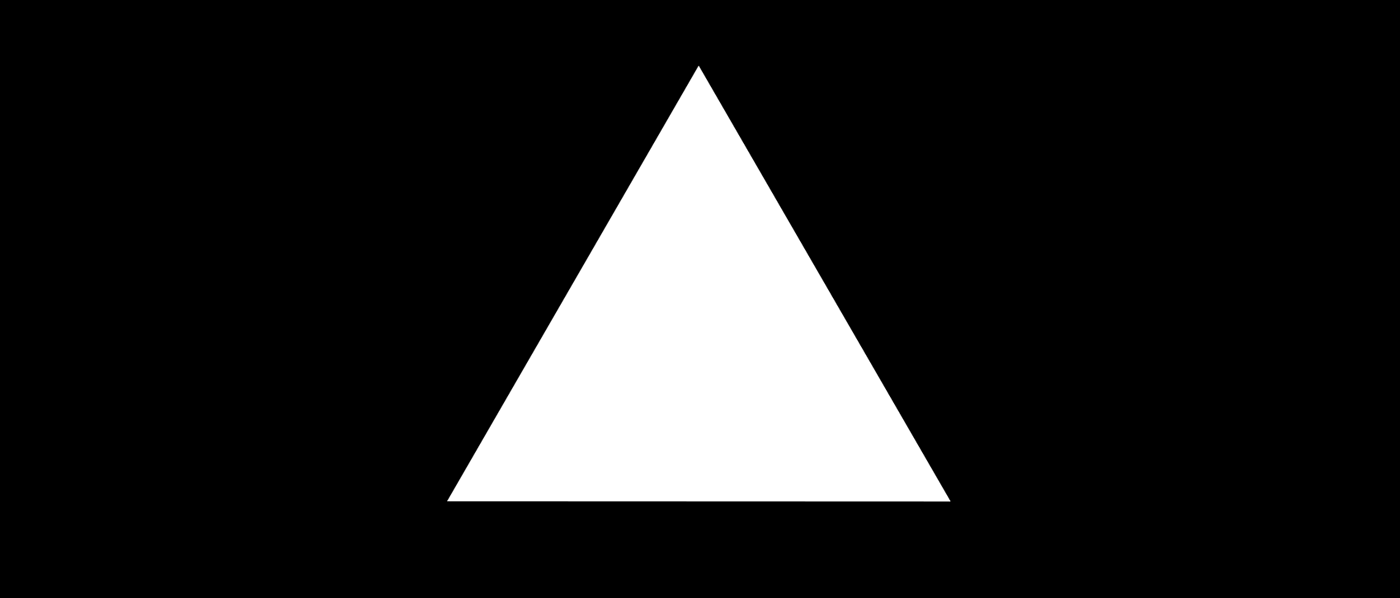
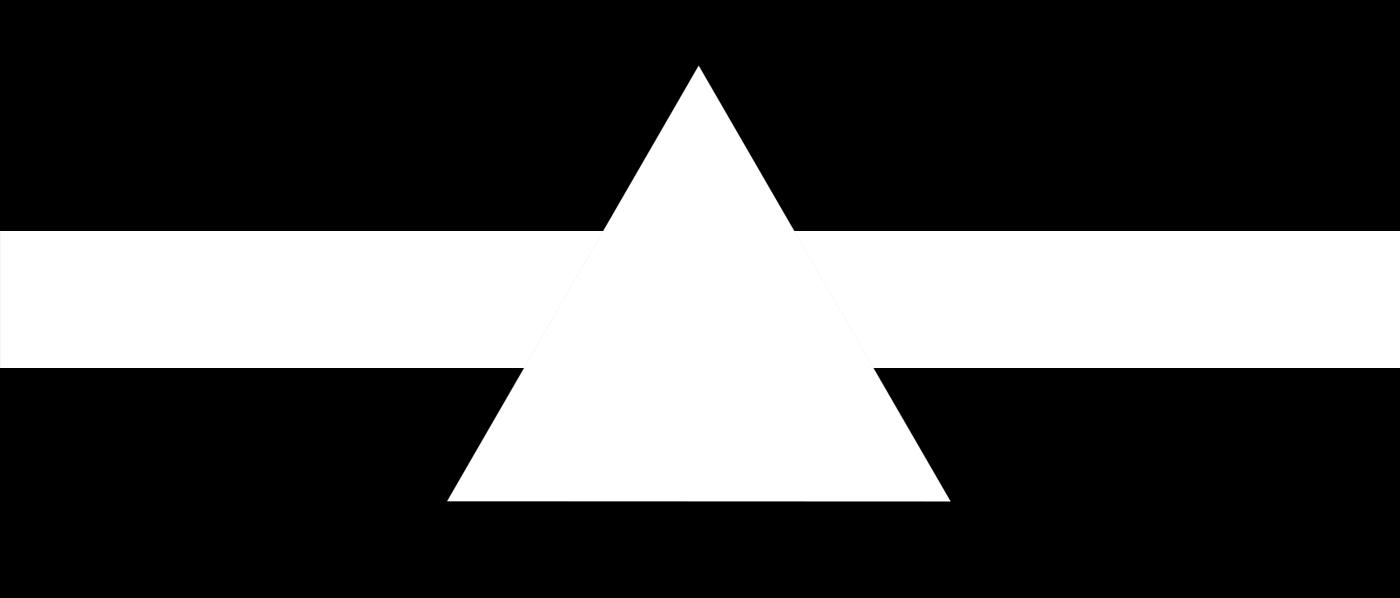
Parallax Test

Changed region(s): [[0.5529, 0.3612, 1.0, 0.6321], [0.0, 0.3612, 0.43, 0.6321]]

diff --git a/css/style.css b/css/style.css
@@ -138,6 +138,8 @@ body {
     overflow-x: hidden;
     overflow-y: auto;
     scroll-behavior: smooth; }
+    .our-work .parallax::-webkit-scrollbar {
+      display: none; }
     .our-work .parallax__group {
       position: relative;
       height: 100vh; }
@@ -148,18 +150,22 @@ body {
         bottom: 0;
         left: 0; }
       .our-work .parallax__group .parallax__layer--1 {
-        background-image: url(../img/montanha.png);
-        background-size: cover; }
+        background-image: url(../img/montanha.jpg);
+        background-size: cover;
+        transform: translateZ(-1px) scale(2); }
       .our-work .parallax__group .parallax__layer--2 {
         background-image: url(../img/pinheiros.png);
-        background-size: cover; }
+        background-size: cover;
+        height: 100vh;
+        transform: translateZ(0px); }
       .our-work .parallax__group .parallax__layer--3 {
         position: absolute;
         font-family: "Montserrat";
         text-align: center;
         color: #fff;
         height: 100%;
-        width: 100%; }
+        width: 100%;
+        transform: translateZ(-6px) scale(7); }
         .our-work .parallax__group .parallax__layer--3 .our-work__name {
           text-transform: uppercase;
           font-size: 4rem;
@@ -181,27 +187,6 @@ body {
             font-weight: 400;
             font-style: italic;
             letter-spacing: 1rem; }
-
-.parallax__layer__0 {
-  transform: translateZ(-300px) scale(4); }
-
-.parallax__layer__1 {
-  transform: translateZ(-250px) scale(3.5); }
-
-.parallax__layer__2 {
-  transform: translateZ(-200px) scale(3); }
-
-.parallax__layer__3 {
-  transform: translateZ(-150px) scale(2.5); }
-
-.parallax__layer__4 {
-  transform: translateZ(-100px) scale(2); }
-
-.parallax__layer__5 {
-  transform: translateZ(-50px) scale(1.5); }
-
-.parallax__layer__6 {
-  transform: translateZ(0px) scale(1); }
 
 .footer {
   background-color: #000;

diff --git a/sass/layout/_ourwork.scss b/sass/layout/_ourwork.scss
@@ -13,9 +13,9 @@
     overflow-y: auto;
     scroll-behavior: smooth;
 
-    // &::-webkit-scrollbar {
-    //   display: none;
-    // }
+    &::-webkit-scrollbar {
+      display: none;
+    }
 
     &__group {
       position: relative;
@@ -30,15 +30,16 @@
       }
 
       & .parallax__layer--1 {
-        background-image: url(../img/montanha.png);
+        background-image: url(../img/montanha.jpg);
         background-size: cover;
-        // transform: translateZ(-1) scale(2);
+        transform: translateZ(-1px) scale(2);
       }
 
       & .parallax__layer--2 {
         background-image: url(../img/pinheiros.png);
         background-size: cover;
-        // transform: translateZ(0);
+        height: 100vh;
+        transform: translateZ(0px);
       }
 
       & .parallax__layer--3 {
@@ -48,6 +49,7 @@
         color: #fff;
         height: 100%;
         width: 100%;
+        transform: translateZ(-6px) scale(7);
 
         & .our-work__name {
           text-transform: uppercase;
@@ -76,14 +78,5 @@
         }
       }
     }
-  }
-}
-
-$parallax__layers: 6;
-
-@for $i from 0 through $parallax__layers {
-  $x: ($parallax__layers - $i) / 2;
-  .parallax__layer__#{$i} {
-    transform: translateZ(-100 * $x#{px}) scale($x + 1);
   }
 }
